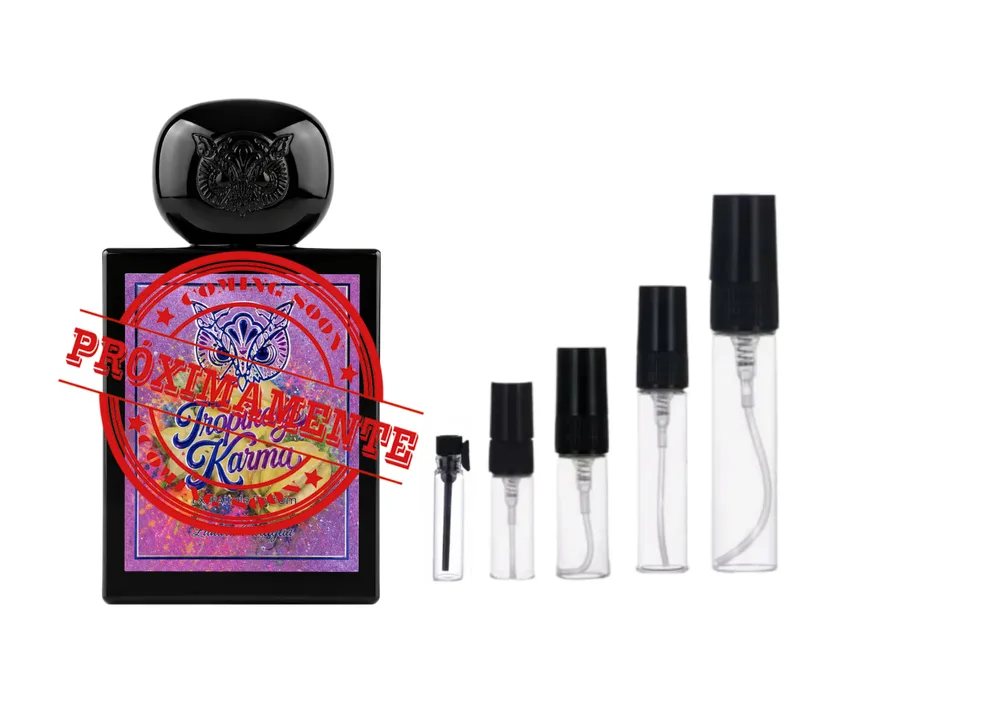
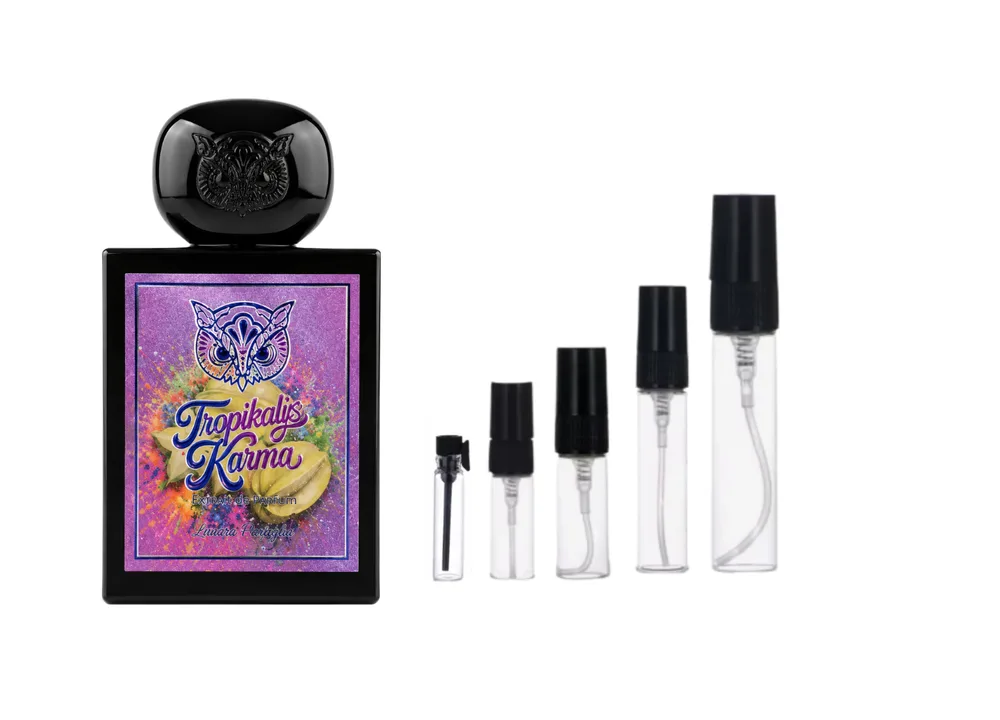
feat(catalog): three new sealed bottles, new photos, Tropikalys Karma in stock
- productos.js: nuevos frascos completos 154 Tropikalys Karma 50ml
  S/675 (mismo precio que tenia Dream Sea), 155 Vibrato 100ml S/795 y
  156 French Riviera 125ml S/375; FO_PRODUCT_IMAGES conecta sus fotos y
  el decant Birth of Venus (51) pasa a la foto nueva frasco + decants
  (151 conserva la de caja + frasco)
- config.js: id 60 Tropikalys Karma sale de PROXIMAMENTE (el decant ya
  esta disponible)
- fotos: TROPIKALYS KARMA.webp regenerada sin el sello PRÓXIMAMENTE
  impreso; nuevas BIRTH OF VENUS DECANTS, VIBRATO 100ML SELLADO y
  FRENCH RIVIERA 125ML SELLADO (1000px q82, igual que el job perfumes
  de tools/optimize-images.js)
- tests: inventario sellado publico 8 -> 11 en qa-catalog (108 PASS),
  completos.spec y selftest; test E2E nuevo "Nuevos sellados 08/10"
- release: 20261002 -> 20261008 y SW fo-v87-catalog-update (productos.js
  se cachea con ?v=, sin bump los clientes no verian los productos)

Changed region(s): [[0.062, 0.3361, 0.434, 0.7639]]

diff --git a/productos.js b/productos.js
@@ -162,6 +162,9 @@
     { id: 151, name: "Birth of Venus", brand: "Argos", category: "nicho", gender: "unisex", notes: "Miel, cítricos y ámbar: el nacimiento luminoso de la diosa.", description: "Frasco sellado original 100ml. Incluye caja y empaque original. Envío con seguro.", fullSizes: {100:950}, decantSizes: {}, fullImage: "", decantImage: "", cardImage: "", sealed: true, sealedStatus: "sellado", sealedSize: "100ml", featured: false, badge: null, badgeText: "" },
     { id: 152, public: false, name: "Dream Sea", brand: "Lorenzo Pazzaglia", category: "nicho", gender: "unisex", notes: "Melón, notas marinas y ámbar: un sueño salado y frutal.", description: "Frasco sellado original 50ml. Incluye caja y empaque original. Envío con seguro.", fullSizes: {50:675}, decantSizes: {}, fullImage: "", decantImage: "", cardImage: "", sealed: true, sealedStatus: "sellado", sealedSize: "50ml", featured: false, badge: null, badgeText: "" },
     { id: 153, name: "Gris Charnel EDP", brand: "BDK Parfums", category: "nicho", gender: "unisex", notes: "Cardamomo, té negro y sándalo: la piel gris, cremosa y sensual.", description: "Frasco sellado original 100ml. Incluye caja y empaque original. Envío con seguro.", fullSizes: {100:799}, decantSizes: {}, fullImage: "", decantImage: "", cardImage: "", sealed: true, sealedStatus: "sellado", sealedSize: "100ml", featured: false, badge: null, badgeText: "" },
+    { id: 154, name: "Tropikalys Karma", brand: "Lorenzo Pazzaglia", category: "nicho", gender: "unisex", notes: "Fruta tropical y ámbar dorado: karma dulce y radiante.", description: "Frasco sellado original 50ml. Incluye caja y empaque original. Envío con seguro.", fullSizes: {50:675}, decantSizes: {}, fullImage: "", decantImage: "", cardImage: "", sealed: true, sealedStatus: "sellado", sealedSize: "50ml", featured: false, badge: null, badgeText: "" },
+    { id: 155, name: "Vibrato", brand: "Sospiro", category: "nicho", gender: "unisex", notes: "Bergamota, incienso y ámbar: vibrante y luminoso.", description: "Frasco sellado original 100ml. Incluye caja y empaque original. Envío con seguro.", fullSizes: {100:795}, decantSizes: {}, fullImage: "", decantImage: "", cardImage: "", sealed: true, sealedStatus: "sellado", sealedSize: "100ml", featured: false, badge: null, badgeText: "" },
+    { id: 156, name: "French Riviera", brand: "Mancera", category: "nicho", gender: "unisex", notes: "Cítricos, notas marinas y madera: la costa francesa, fresca y solar.", description: "Frasco sellado original 125ml. Incluye caja y empaque original. Envío con seguro.", fullSizes: {125:375}, decantSizes: {}, fullImage: "", decantImage: "", cardImage: "", sealed: true, sealedStatus: "sellado", sealedSize: "125ml", featured: false, badge: null, badgeText: "" },
 
 
   ];
@@ -252,7 +255,7 @@
     48: { main: "img/perfumes_optimized/MANGOMINA D.webp", sizes: { "10_premium": "img/perfumes_optimized/MANGOMINA D decant premium 10 ml.webp", "20": "img/perfumes_optimized/MANGOMINA D 20ml.webp", "5_premium": "img/perfumes_optimized/MANGOMINA D decant premium 5ml.webp" } },
     49: { main: "img/perfumes_optimized/TALCO.webp", sizes: { "10_premium": "img/perfumes_optimized/TALCO decant premium 10 ml.webp", "20": "img/perfumes_optimized/TALCO 20ml.webp", "5_premium": "img/perfumes_optimized/TALCO decant premium 5ml.webp" } },
     50: { main: "img/perfumes_optimized/COCKTAIL MARACUJA.webp", sizes: { "10_premium": "img/perfumes_optimized/COCKTAIL MARACUJA decant premium 10 ml.webp", "20": "img/perfumes_optimized/COCKTAIL MARACUJA 20ml.webp", "5_premium": "img/perfumes_optimized/COCKTAIL MARACUJA decant premium 5ml.webp" } },
-    51: { main: "img/perfumes_optimized/BIRTH OF VENUS.webp", sizes: { "10_premium": "img/perfumes_optimized/BIRTH OF VENUS decant premium 10 ml.webp", "30": "img/perfumes_optimized/BIRTH OF VENUS 30ml.webp", "5_premium": "img/perfumes_optimized/BIRTH OF VENUS decant premium 5ml.webp" } },
+    51: { main: "img/perfumes_optimized/BIRTH OF VENUS DECANTS.webp", sizes: { "10_premium": "img/perfumes_optimized/BIRTH OF VENUS decant premium 10 ml.webp", "30": "img/perfumes_optimized/BIRTH OF VENUS 30ml.webp", "5_premium": "img/perfumes_optimized/BIRTH OF VENUS decant premium 5ml.webp" } },
     52: { main: "img/perfumes_optimized/La primavera.webp", sizes: { "10_premium": "img/perfumes_optimized/La primavera decant premium 10 ml.webp", "30": "img/perfumes_optimized/La primavera 30ml.webp", "5_premium": "img/perfumes_optimized/La primavera decant premium 5ml.webp" } },
     53: { main: "img/perfumes_optimized/NARCISSUS OBSESSION.webp", sizes: { "10_premium": "img/perfumes_optimized/NARCISSUS OBSESSION decant premium 10 ml.webp", "30": "img/perfumes_optimized/NARCISSUS OBSESSION 30ml.webp", "5_premium": "img/perfumes_optimized/NARCISSUS OBSESSION decant premium 5ml.webp" } },
     54: { main: "img/perfumes_optimized/JUPITER’S LIGHTNING.webp", sizes: { "10_premium": "img/perfumes_optimized/JUPITER’S LIGHTNING decant premium 10 ml.webp", "30": "img/perfumes_optimized/JUPITER’S LIGHTNING 30ml.webp", "5_premium": "img/perfumes_optimized/JUPITER’S LIGHTNING decant premium 5ml.webp" } },
@@ -354,6 +357,9 @@
     151: { main: "img/perfumes_optimized/BIRTH OF VENUS.webp", sizes: {} },
     152: { main: "img/perfumes_optimized/DREAM SEA.webp", sizes: {} },
     153: { main: "img/perfumes_optimized/GRIS CHARNEL EDP.webp", sizes: {} },
+    154: { main: "img/perfumes_optimized/TROPIKALYS KARMA.webp", sizes: {} },
+    155: { main: "img/perfumes_optimized/VIBRATO 100ML SELLADO.webp", sizes: {} },
+    156: { main: "img/perfumes_optimized/FRENCH RIVIERA 125ML SELLADO.webp", sizes: {} },
   };
   Object.entries(w.FO_PRODUCT_IMAGES).forEach(([id, imgs]) => {
     const p = w.FO_PRODUCTS.find((x) => x.id === Number(id));

diff --git a/tests/e2e/completos.spec.js b/tests/e2e/completos.spec.js
@@ -31,7 +31,7 @@ test('Completos nav clears stale filters, wraps vertically and survives Back/For
     (window.FO_PRODUCTS || []).filter((p) => p.sealed === true && p.public !== false).map((p) => p.id));
   await expect(cards).toHaveCount(publicSealedIds.length);
   expect(await cards.evaluateAll((els) => els.map((el) => Number(el.dataset.productId)))).toEqual(publicSealedIds);
-  expect(publicSealedIds).toEqual([141, 143, 145, 146, 147, 148, 151, 153]);
+  expect(publicSealedIds).toEqual([141, 143, 145, 146, 147, 148, 151, 153, 154, 155, 156]);
   // Retirados (cliente 02/10): sus ids NO están en el grid.
   for (const id of [142, 152]) {
     expect(publicSealedIds).not.toContain(id);
@@ -60,6 +60,57 @@ test('Completos nav clears stale filters, wraps vertically and survives Back/For
   await page.locator('#catalogGrid [data-product-id="143"]').click();
   await expect(page.locator('#modalName')).toHaveText('Erba Gold');
   await expect(page.locator('#modalAddBtn')).toContainText('Cotizar Frasco');
+});
+
+test('Nuevos sellados 08/10: Tropikalys Karma, Vibrato y French Riviera', async ({ page }) => {
+  test.setTimeout(120000);
+  await openNavLink(page, 'Completos');
+  const grid = page.locator('#catalogGrid');
+  const expected = [
+    [154, 'Tropikalys Karma', 'Lorenzo Pazzaglia', 'S/ 675.00'],
+    [155, 'Vibrato', 'Sospiro', 'S/ 795.00'],
+    [156, 'French Riviera', 'Mancera', 'S/ 375.00'],
+  ];
+  for (const [id, name, brand, price] of expected) {
+    const card = grid.locator(`[data-product-id="${id}"]`);
+    await expect(card).toBeVisible();
+    await expect(card.locator('.product-name')).toHaveText(name);
+    await expect(card.locator('.product-brand')).toHaveText(brand);
+    await expect(card.locator('.product-price')).toContainText(price);
+    await expect(card.locator('.product-badge')).toHaveText('Frasco completo');
+    await expect(card.locator('.btn-add')).toHaveText('Comprar Sellado');
+    // Las fotos nuevas van al final del grid y usan loading="lazy": primero
+    // entran al viewport para que WebKit móvil dispare la carga.
+    await card.scrollIntoViewIfNeeded();
+    await expect.poll(() => card.locator('img').evaluate((img) => img.naturalWidth)).toBeGreaterThan(0);
+    const src = await card.locator('img').getAttribute('src');
+    await card.click();
+    await expect(page.locator('#modalOverlay')).toHaveClass(/active/);
+    await expect(page.locator('#modalName')).toHaveText(name);
+    await expect(page.locator('#modalImage img')).toHaveAttribute('src', src);
+    await expect(page.locator('#modalAddBtn')).toContainText('Cotizar Frasco');
+    await page.locator('#modalOverlay .modal-close').click();
+  }
+
+  // Tropikalys Karma decant (60): sale de Próximamente y su foto ya no
+  // trae el sello impreso.
+  await openNavLink(page, 'Catálogo');
+  await page.locator('#catalogSearch').fill('Tropikalys Karma');
+  const decant = page.locator('#catalogGrid [data-product-id="60"]');
+  await expect(decant).toBeVisible();
+  await expect(decant.locator('.product-badge').filter({ hasText: 'Próximamente' })).toHaveCount(0);
+  await expect(decant.locator('.btn-add')).toBeEnabled();
+  await decant.scrollIntoViewIfNeeded();
+  await expect.poll(() => decant.locator('img').evaluate((img) => img.naturalWidth)).toBeGreaterThan(0);
+
+  // Birth of Venus: el decant (51) usa la foto nueva frasco + decants y el
+  // sellado (151) conserva la foto de caja + frasco.
+  await page.locator('#catalogSearch').fill('Birth of Venus');
+  await expect(page.locator('#catalogGrid [data-product-id="51"] img'))
+    .toHaveAttribute('src', /BIRTH OF VENUS DECANTS\.webp/);
+  await openNavLink(page, 'Completos');
+  await expect(page.locator('#catalogGrid [data-product-id="151"] img'))
+    .toHaveAttribute('src', /BIRTH OF VENUS\.webp/);
 });
 
 test('Six affected decants share availability and canonical photos in cards and modals', async ({ page }) => {
@@ -123,7 +174,7 @@ test('Header fits and Completos wraps across the requested responsive widths', a
   test.skip(testInfo.project.name !== 'chromium', 'The viewport matrix runs once on desktop Chromium.');
   const publicSealedCount = await page.evaluate(() =>
     (window.FO_PRODUCTS || []).filter((p) => p.sealed === true && p.public !== false).length);
-  expect(publicSealedCount).toBe(8); // 141, 143, 145, 146, 147, 148, 151, 153
+  expect(publicSealedCount).toBe(11); // 141, 143, 145, 146, 147, 148, 151, 153 + nuevos 154, 155, 156 (08/10)
   for (const width of [320, 360, 390, 430, 768, 900, 1024, 1280, 1366, 1440]) {
     await page.setViewportSize({ width, height: 900 });
     await openNavLink(page, 'Completos');

diff --git a/tests/qa-catalog.js b/tests/qa-catalog.js
@@ -172,6 +172,8 @@ check("Castley decant(100) NOT in PROXIMAMENTE", !proxArr.includes(100), "");
 check("Castley sellado(142) NOT in PROXIMAMENTE", !proxArr.includes(142), "");
 // Fierezza pasa a disponible manteniendo su lugar en Featured.
 check("Fierezza(140) available and still featured", !proxArr.includes(140) && featArr.includes(140), "");
+// Tropikalys Karma decant disponible (cliente 08/10): foto limpia, sin Próximamente.
+check("Tropikalys Karma decant(60) NOT in PROXIMAMENTE", !proxArr.includes(60), "");
 
 // Inventario confirmado el 17/09: evalúa el mapa canónico aplicado al catálogo.
 const vm = require("vm");
@@ -198,7 +200,9 @@ check("Narcotic full bottle absent from public inventory", !inventory.filter((p)
 check("Ani(90) visible en el inventario público", inventory.some((p) => p.id === 90 && p.public !== false), "");
 check("Ani(90) NO DISPONIBLE listado y fuera de PROXIMAMENTE", noDispArr.includes(90) && !proxArr.includes(90), "noDisp=" + JSON.stringify(noDispArr));
 check("Toucan 20ml (decant) with its own image", inventory.some((p) => p.id === 137 && p.decantSizes[20] && /Toucan 20ml\.webp$/.test(p.sizeImages["20"])), "");
-[[151, "Birth of Venus", "Argos", 100, 950], [153, "Gris Charnel EDP", "BDK Parfums", 100, 799]].forEach(([id, name, brand, ml, price]) => {
+[[151, "Birth of Venus", "Argos", 100, 950], [153, "Gris Charnel EDP", "BDK Parfums", 100, 799],
+ [154, "Tropikalys Karma", "Lorenzo Pazzaglia", 50, 675], [155, "Vibrato", "Sospiro", 100, 795],
+ [156, "French Riviera", "Mancera", 125, 375]].forEach(([id, name, brand, ml, price]) => {
   const p = inventory.find((x) => x.id === id);
   check(`Sealed ${name} ${ml}ml S/${price}`, !!p && p.name === name && p.brand === brand && p.sealed && p.sealedStatus === "sellado" && p.sealedSize === ml + "ml" && p.fullSizes[ml] === price && p.public !== false && !proxArr.includes(id), "");
   check(`Sealed ${name} image exists`, !!p && fs.existsSync(path.join(ROOT, p.cardImage)), "");
@@ -219,7 +223,7 @@ check("Toucan 20ml (decant) with its own image", inventory.some((p) => p.id === 
 /* Los decants de esos nombres NO se tocaron. */
 check("Castley decant(100) still public", inventory.some((p) => p.id === 100 && p.public !== false && Object.keys(p.decantSizes).length > 0), "");
 check("Dream Sea decant(58) still public", inventory.some((p) => p.id === 58 && p.public !== false && Object.keys(p.decantSizes).length > 0), "");
-check("public sealed inventory = 8", inventory.filter((p) => p.sealed === true && p.public !== false).length === 8, "count=" + inventory.filter((p) => p.sealed === true && p.public !== false).length);
+check("public sealed inventory = 11", inventory.filter((p) => p.sealed === true && p.public !== false).length === 11, "count=" + inventory.filter((p) => p.sealed === true && p.public !== false).length);
 check("Narcotic decant stays public", inventory.some((p) => p.id === 62 && p.public !== false && Object.keys(p.decantSizes).length > 0), "");
 
 console.log("\n=== RESULTADO ===");

diff --git a/config.js b/config.js
@@ -153,14 +153,17 @@ window.FO_CONFIG = {
      a la venta: se mostrarán con el badge "Próximamente", botón
      deshabilitado y aviso de reserva en el modal.
      Ejemplo: PROXIMAMENTE: [42, 73] */
-  PROXIMAMENTE: [9, 10, 19, 37, 40, 41, 55, 60, 63, 78, 79, 95, 101, 103, 138, 150], // Ichigo Ichie, Last Birthday Cake, Mango Kiss, Que Chimba, Speachless, Evil Angel, Porthole, Tropikalys Karma, Musk Therapy, Gentle Fluidity Silver, Grand Soir, Wulong Cha X, Sedley, Malibú Party, Loverbird, Mefisto Gentiluomo
+  PROXIMAMENTE: [9, 10, 19, 37, 40, 41, 55, 63, 78, 79, 95, 101, 103, 138, 150], // Ichigo Ichie, Last Birthday Cake, Mango Kiss, Que Chimba, Speachless, Evil Angel, Porthole, Musk Therapy, Gentle Fluidity Silver, Grand Soir, Wulong Cha X, Sedley, Malibú Party, Loverbird, Mefisto Gentiluomo
   /* Disponibles: Fierezza (140), Gris Charnel EDP (81), Birth of Venus (51),
      Paragon (64), Toucan (137, 20 ml), Castley
-     decant (100) y Narcotic Delight decant (62).
+     decant (100), Narcotic Delight decant (62) y Tropikalys Karma decant
+     (60) — cliente 08/10: sale de Próximamente con foto limpia.
      Narcotic Delight sellado (144), Castley sellado (142) y Dream Sea
      sellado (152) se conservan como dato histórico y están retirados del
      inventario público mediante public: false en productos.js
-     (cliente 02/10). El decant de Castley (100) NO está afectado. */
+     (cliente 02/10). El decant de Castley (100) NO está afectado.
+     Nuevos frascos completos (cliente 08/10): Tropikalys Karma sellado
+     (154), Vibrato sellado (155) y French Riviera sellado (156). */
 
   /* ── NO DISPONIBLE (visible, pero sin venta) ──────────────────
      A diferencia de PROXIMAMENTE y de public:false, estos ids SIGUEN en

diff --git a/tests/selftest.js b/tests/selftest.js
@@ -1380,8 +1380,10 @@ step(function () {
     ok(badge(148) === "Parcial · 99% de contenido", "condParcial148", "badge=" + badge(148));
     ok(badge(141) === "Frasco completo", "condSelladoNormal141", "badge=" + badge(141));
     /* Set DERIVADO del inventario público: sellados con public !== false.
-       Tras la retirada del 02/10 quedan 8 (142 Castley y 152 Dream Sea ya
-       no aparecen) — el número no se fija a mano. */
+       Tras la retirada del 02/10 quedaban 8 (142 Castley y 152 Dream Sea
+       ya no aparecen); el 08/10 suman 11 con Tropikalys Karma (154),
+       Vibrato (155) y French Riviera (156) — el número se mantiene
+       sincronizado con productos.js, la lista no se inventa a mano. */
     var visibleIds = Array.prototype.map.call(document.querySelectorAll('#catalogGrid .product-card[data-product-id]'), function (card) {
       return Number(card.dataset.productId);
     });
@@ -1389,7 +1391,7 @@ step(function () {
       return p.sealed === true && p.public !== false;
     }).map(function (p) { return p.id; });
     var sortNums = function (a, b) { return a - b; };
-    ok(JSON.stringify(visibleIds.slice().sort(sortNums)) === JSON.stringify(expectedIds.slice().sort(sortNums)) && expectedIds.length === 8,
+    ok(JSON.stringify(visibleIds.slice().sort(sortNums)) === JSON.stringify(expectedIds.slice().sort(sortNums)) && expectedIds.length === 11,
       "fullBottlesSetMatchesInventory", "visibles=" + visibleIds.join(",") + " esperado=" + expectedIds.join(","));
     ok(visibleIds.indexOf(142) === -1 && visibleIds.indexOf(152) === -1, "sealedRetiredNotInGrid", "visibles=" + visibleIds.join(","));
     // El DECANT de Castley (100) no es sellado: no entra en Completos…

diff --git a/index.html b/index.html
@@ -138,7 +138,7 @@
     })();
   </script>
 
-  <link rel="stylesheet" href="styles.css?v=20261002" />
+  <link rel="stylesheet" href="styles.css?v=20261008" />
 </head>
 <body>
   <!-- Loading Screen -->
@@ -1041,7 +1041,7 @@
   <!-- Animation libraries (orden importa: GSAP → ScrollTrigger → app → animations) -->
   <script src="https://cdnjs.cloudflare.com/ajax/libs/gsap/3.12.5/gsap.min.js" defer></script>
   <script src="https://cdnjs.cloudflare.com/ajax/libs/gsap/3.12.5/ScrollTrigger.min.js" defer></script>
-  <script src="config.js?v=20261002" defer></script>
+  <script src="config.js?v=20261008" defer></script>
   <script>
     /* URLs canónicas dinámicas: respetan la URL real (GitHub Pages, localhost o dominio propio). */
     (function () {
@@ -1055,11 +1055,11 @@
       } catch (e) {}
     })();
   </script>
-  <script src="descuentos.js?v=20261002" defer></script>
-  <script src="productos.js?v=20261002" defer></script>
-  <script src="hero-stats.js?v=20261002" defer></script>
-  <script src="animations.js?v=20261002" defer></script>
-  <script src="script.js?v=20261002" defer></script>
+  <script src="descuentos.js?v=20261008" defer></script>
+  <script src="productos.js?v=20261008" defer></script>
+  <script src="hero-stats.js?v=20261008" defer></script>
+  <script src="animations.js?v=20261008" defer></script>
+  <script src="script.js?v=20261008" defer></script>
 
   <!-- Senja (reseñas reales): terceros, script público, async, se carga una
        sola vez y no bloquea el first paint. iframeResizer solo ajusta la

diff --git a/tests/release-coherence.js b/tests/release-coherence.js
@@ -5,7 +5,7 @@ const http = require("http");
 const path = require("path");
 
 const root = path.resolve(__dirname, "..");
-const release = "20261002";
+const release = "20261008";
 const critical = ["styles.css", "config.js", "descuentos.js", "productos.js", "hero-stats.js", "animations.js", "script.js"];
 const legacyAssets = Object.fromEntries(critical.map((file) => [file, file.endsWith(".css") ? "button{font:caption}" : "window.LEGACY_APP=true"]));
 const legacyWorker = `
@@ -108,7 +108,7 @@ function send(res, body, extension) {
   await offlineContext.setOffline(true);
   await offlinePage.reload({ waitUntil: "domcontentloaded" });
   assert.strictEqual(await offlinePage.locator(".off-title").innerText(), "Estás sin conexión");
-  assert.strictEqual(await offlinePage.locator('link[href="styles.css?v=20261002"]').evaluate((element) => !!element.sheet), true);
+  assert.strictEqual(await offlinePage.locator('link[href="styles.css?v=20261008"]').evaluate((element) => !!element.sheet), true);
   await offlineContext.setOffline(false);
 
   const noJs = await browser.newContext({ javaScriptEnabled: false, serviceWorkers: "block" });

diff --git a/admin.html b/admin.html
@@ -17,7 +17,7 @@
       catch (e) { document.documentElement.setAttribute("data-theme", "light"); }
     })();
   </script>
-  <link rel="stylesheet" href="styles.css?v=20261002" />
+  <link rel="stylesheet" href="styles.css?v=20261008" />
   <style>
     .adm-wrap { max-width: 1100px; margin: 0 auto; padding: 2.5rem 1.2rem 4rem; }
     .adm-head { display: flex; align-items: center; gap: .8rem; margin-bottom: 1.6rem; flex-wrap: wrap; }
@@ -102,7 +102,7 @@
     <div class="adm-orders" id="ordersList"></div>
   </div>
 
-  <script src="config.js?v=20261002"></script>
+  <script src="config.js?v=20261008"></script>
   <script>
     (function () {
       "use strict";

diff --git a/offline.html b/offline.html
@@ -11,7 +11,7 @@
   <link rel="preconnect" href="https://fonts.gstatic.com" crossorigin />
   <link rel="stylesheet"
     href="https://fonts.googleapis.com/css2?family=Cormorant+Garamond:wght@400;500;600&family=Jost:wght@300;400;500;600&display=swap" />
-  <link rel="stylesheet" href="styles.css?v=20261002" />
+  <link rel="stylesheet" href="styles.css?v=20261008" />
   <style>
     .off-wrap {
       min-height: 100vh; display: flex; flex-direction: column;

diff --git a/sw.js b/sw.js
@@ -6,8 +6,8 @@
  * OJO: si algún día se vuelve a cache-first para assets, CADA deploy
  * DEBE bumpear VERSION o los clientes se quedan con código viejo.
  */
-const RELEASE = "20261002";
-const VERSION = "fo-v86-checkout-shipping";
+const RELEASE = "20261008";
+const VERSION = "fo-v87-catalog-update";
 const CORE_CACHE = `core-${VERSION}`;
 const IMG_CACHE = `img-${VERSION}`;
 const FONT_CACHE = `font-${VERSION}`;

diff --git a/HANDOFF.md b/HANDOFF.md
@@ -839,3 +839,61 @@ Pedido del cliente (4 puntos):
   ronda anterior.)
 - **Sin bump de release**: solo cambiaron `script.js` y tests; los tokens
   `?v=` / `RELEASE` siguen coherentes (20261002 / fo-v86-checkout-shipping).
+
+## Ronda 2026-10-08 - Fotos del cliente, 3 sellados nuevos, Tropikalys Karma disponible
+
+Los 5 puntos del cliente quedaron cerrados:
+
+1. **Birth of Venus - foto nueva (frasco + decants)**: se generó
+   `img/perfumes_optimized/BIRTH OF VENUS DECANTS.webp` desde
+   `img/perfumes/BIRTH OF VENUS.png` con los mismos parámetros del job
+   `perfumes` de `tools/optimize-images.js` (1000px, q82) y se conectó SOLO
+   al decant (id 51) en `FO_PRODUCT_IMAGES`. El sellado (151) conserva la
+   foto de caja + frasco (`BIRTH OF VENUS.webp`) - decisión explícita del
+   cliente.
+2. **Tropikalys Karma sellado (nuevo id 154)**: Lorenzo Pazzaglia, nicho,
+   `sealed: true`, `sealedStatus: "sellado"`, `sealedSize: "50ml"`,
+   `fullSizes: {50:675}` - el mismo precio que tenía Dream Sea (50ml).
+   `FO_PRODUCT_IMAGES[154]` usa la foto limpia nueva: la anterior
+   `TROPIKALYS KARMA.webp` traía el sello "PRÓXIMAMENTE" impreso en el
+   archivo y ya se regeneró sin él.
+3. **Tropikalys Karma decant (id 60) disponible**: el id 60 salió de
+   `FO_CONFIG.PROXIMAMENTE` (array + comentario), así que el decant ya no
+   muestra badge "Próximamente" ni botón bloqueado. Fotos por tamaño
+   (5/10/20ml) intactas.
+4. **Vibrato sellado (nuevo id 155)**: Sospiro, nicho, `sealedSize:
+   "100ml"` (leído de la caja en la foto), `fullSizes: {100:795}`. Foto
+   nueva `VIBRATO 100ML SELLADO.webp` (caja + frasco); el decant (68)
+   sigue con `VIBRATO.webp` (frasco + decants).
+5. **French Riviera sellado (nuevo id 156)**: Mancera, nicho,
+   `sealedSize: "125ml"` (declarado en la caja de la foto),
+   `fullSizes: {125:375}`. Foto nueva `FRENCH RIVIERA 125ML SELLADO.webp`.
+   Es un id nuevo: French Riviera no existía ni como decant.
+
+- **Release bumpeada 20261002 -> 20261008** en `index.html` (7),
+  `admin.html` (2), `offline.html` (1), `sw.js` (`RELEASE`) y
+  `tests/release-coherence.js` (2); SW `fo-v86-checkout-shipping` ->
+  **`fo-v87-catalog-update`**. El bump es obligatorio: `productos.js` es un
+  asset cacheado con `?v=`, sin él los clientes con SW viejo no verían los
+  productos nuevos.
+- **Tests actualizados** (los contadores fijos ya no dan 8):
+  `tests/qa-catalog.js` inventario sellado publico 8 -> **11**, mas los
+  checks de nombre/marca/talla/precio de 154/155/156 y
+  `Tropikalys Karma decant(60) NOT in PROXIMAMENTE` (**108 PASS | 0
+  FAIL**); `tests/e2e/completos.spec.js` lista de ids ->
+  `[141,143,145,146,147,148,151,153,154,155,156]`, `toBe(11)`, y test
+  nuevo **"Nuevos sellados 08/10"** (card + precio + badge "Frasco
+  completo" + boton "Comprar Sellado" + foto cargada + modal "Cotizar
+  Frasco" en los 3 proyectos, decant 60 sin badge y foto 51 vs 151);
+  `tests/selftest.js` `fullBottlesSetMatchesInventory` 8 -> 11.
+- **Resultado**: `npm test` **344 PASS | 0 FAIL x 6**; `npx playwright test`
+  **199 passed / 2 skipped / 0 failed** (201 tests, 3 proyectos); smoke
+  14/14; qa-catalog **108/108**; test-descuentos **86/86**;
+  `node tools/audit-images.js` **PASS** (155 productos, 1050
+  presentaciones, 3 DUPLICATE_SUSPICIOUS - los mismos patrones aceptados:
+  Dream Sea 58/152, Tropikalys Karma 60/154 y Gris Charnel EDP 81/153
+  comparten foto entre decant y sellado); release-coherence PASS.
+- **Imágenes sin relacion con esta tarea sin commitear**: 4 webp de Gris
+  Charnel Extrait modificadas + 4 webp `Mefisto Xerjoff*` nuevas (mismo
+  criterio de las rondas anteriores; `img/perfumes/` es fuente y sigue en
+  .gitignore).
